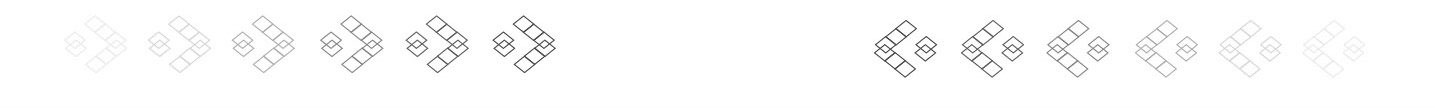
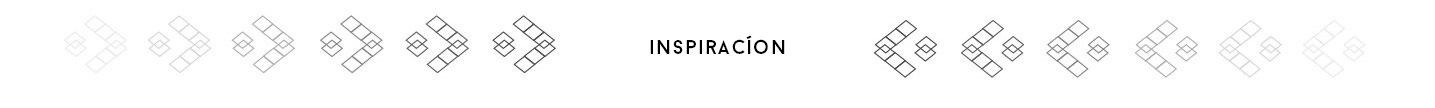
More fixes

Changed region(s): [[0.4293, 0.3611, 0.5519, 0.5]]

diff --git a/index.html b/index.html
@@ -50,7 +50,7 @@
                 <li><a href="#footer">CONTACTO</a></li>
             </ul>
         </div>
-        <a href="https://app.thebookingbutton.com/properties/pugsealtennysondirect" class="boo-king-a" target="_blank">Reservar</a>
+        <a href="https://app.thebookingbutton.com/properties/pugsealtennysondirect" class="boo-king-a" target="_blank">reservar</a>
         <img class="puglogob" src="images/logo2x.png" height="70" alt="PugSeal-Logo" />
         <a href="#firstPage" class="white-logo-bx"><img src="images/logo2xw.png" height="70" alt="PugSeal-Logo" /></a>
     </div>
@@ -67,8 +67,6 @@
                 <a class="show-booking-nav" href="https://app.thebookingbutton.com/properties/pugsealtennysondirect" target="_blank" data-aos="zoom-in" data-aos-duration="1000" data-aos-easing="ease-out-sine"><img src="images/welc.png" height="45" alt="" /></a>
             </div>
             <a href="#secondPage" class="down-scroll">
-
-                <div class="tagnav">Inspiración</div>
                 <!-- Generator: Adobe Illustrator 21.0.2, SVG Export Plug-In  -->
                 <svg x="0px" y="0px" width="21.2px" height="11.3px" viewBox="0 0 21.2 11.3" style="enable-background:new 0 0 21.2 11.3;" xml:space="preserve">
 			<defs>
@@ -319,7 +317,7 @@
         </div>
         <div class="row ubicaciones">
             <div class="col s12 m4">
-                <h3><a href="belisario.html">B E L I S A R I O &nbsp; D O M Í N G U E Z</a></h3>
+                <h3><a href="belisario.html">B E L I S A R I O</a></h3>
                 <p>1er. Cerrada Belisario Dominguez
                     <br /> Col. Del Carmen
                     <br /> Delegación CoyoacÁn México,

diff --git a/belisario.html b/belisario.html
@@ -82,7 +82,7 @@
                 </div>
             </div>
             <a href="#secondPage" class="down-scroll">
-                <div class="tagnav">Inspiración</div>
+                <div class="tagnav"></div>
                 <!-- Generator: Adobe Illustrator 21.0.2, SVG Export Plug-In  -->
                 <svg x="0px" y="0px" width="21.2px" height="11.3px" viewBox="0 0 21.2 11.3" style="enable-background:new 0 0 21.2 11.3;" xml:space="preserve">
 			<defs>
@@ -95,7 +95,7 @@
 
             </a>
             <div class="clearfix"></div>
-            <div class="pug-seal-deco" style="background: white url('images/barrawho-rooms.jpg') no-repeat center center;"></div>
+            <div class="pug-seal-deco" style="background: white url('images/barrawho.png') no-repeat center center;"></div>
             <div class="clearfix"></div>
         </div>
         <div class="section" id="section-mid" style="background: none;">
@@ -356,7 +356,7 @@
             </div>
             <div class="row ubicaciones">
                 <div class="col s12 m4">
-                    <h3><a href="belisario.html">B E L I S A R I O &nbsp; D O M Í N G U E Z</a></h3>
+                    <h3><a href="belisario.html">B E L I S A R I O</a></h3>
                     <p>1er. Cerrada Belisario Dominguez
                         <br /> Col. Del Carmen
                         <br /> Delegación CoyoacÁn México,

diff --git a/careyes/index.html b/careyes/index.html
@@ -164,6 +164,7 @@
                 		        <li class="slide1litext hide-on-med-and-down">- Día de aventura con snorkel,<br />
                 		            <span> pádel y comida en la playa</span><br />
                 		        </li>
+                		        <div class="clearfix"></div>
                 		        <li class="slide1litext">- Masajista</li><br />
                 		        <li class="slide1litext">- Paseo en yate</li>
                 		    </ul>
@@ -288,7 +289,7 @@
             </div>
             <div class="row ubicaciones">
                 <div class="col s12 m4">
-                    <h3><a href="belisario.html">B E L I S A R I O &nbsp; D O M Í N G U E Z</a></h3>
+                    <h3><a href="belisario.html">B E L I S A R I O</a></h3>
                     <p>1er. Cerrada Belisario Dominguez
                         <br /> Col. Del Carmen
                         <br /> Delegación CoyoacÁn México,

diff --git a/allanpoe.html b/allanpoe.html
@@ -89,7 +89,7 @@
                 </div>
             </div>
             <a href="#secondPage" class="down-scroll">
-                <div class="tagnav">Inspiración</div>
+                <div class="tagnav"></div>
                 <!-- Generator: Adobe Illustrator 21.0.2, SVG Export Plug-In  -->
                 <svg x="0px" y="0px" width="21.2px" height="11.3px" viewBox="0 0 21.2 11.3" style="enable-background:new 0 0 21.2 11.3;" xml:space="preserve">
 			<defs>
@@ -281,7 +281,7 @@
             </div>
             <div class="row ubicaciones">
                 <div class="col s12 m4">
-                    <h3><a href="belisario.html">B E L I S A R I O &nbsp; D O M Í N G U E Z</a></h3>
+                    <h3><a href="belisario.html">B E L I S A R I O</a></h3>
                     <p>1er. Cerrada Belisario Dominguez
                         <br /> Col. Del Carmen
                         <br /> Delegación CoyoacÁn México,

diff --git a/allanpoe_.html b/allanpoe_.html
@@ -89,7 +89,7 @@
                 </div>
             </div>
             <a href="#secondPage" class="down-scroll">
-                <div class="tagnav">Inspiración</div>
+                <div class="tagnav"></div>
                 <!-- Generator: Adobe Illustrator 21.0.2, SVG Export Plug-In  -->
                 <svg x="0px" y="0px" width="21.2px" height="11.3px" viewBox="0 0 21.2 11.3" style="enable-background:new 0 0 21.2 11.3;" xml:space="preserve">
 			<defs>
@@ -275,7 +275,7 @@
             </div>
             <div class="row ubicaciones">
                 <div class="col s12 m4">
-                    <h3><a href="belisario.html">B E L I S A R I O &nbsp; D O M Í N G U E Z</a></h3>
+                    <h3><a href="belisario.html">B E L I S A R I O</a></h3>
                     <p>1er. Cerrada Belisario Dominguez
                         <br /> Col. Del Carmen
                         <br /> Delegación CoyoacÁn México,

diff --git a/tenyson.html b/tenyson.html
@@ -84,7 +84,7 @@
                 </div>
             </div>
             <a href="#secondPage" class="down-scroll">
-                <div class="tagnav">Inspiración</div>
+                <div class="tagnav"></div>
                 <!-- Generator: Adobe Illustrator 21.0.2, SVG Export Plug-In  -->
                 <svg x="0px" y="0px" width="21.2px" height="11.3px" viewBox="0 0 21.2 11.3" style="enable-background:new 0 0 21.2 11.3;" xml:space="preserve">
 			<defs>
@@ -272,7 +272,7 @@
             </div>
             <div class="row ubicaciones">
                 <div class="col s12 m4">
-                    <h3><a href="belisario.html">B E L I S A R I O &nbsp; D O M Í N G U E Z</a></h3>
+                    <h3><a href="belisario.html">B E L I S A R I O</a></h3>
                     <p>1er. Cerrada Belisario Dominguez
                         <br /> Col. Del Carmen
                         <br /> Delegación CoyoacÁn México,

diff --git a/tenyson_.html b/tenyson_.html
@@ -84,7 +84,7 @@
                 </div>
             </div>
             <a href="#secondPage" class="down-scroll">
-                <div class="tagnav">Inspiración</div>
+                <div class="tagnav"></div>
                 <!-- Generator: Adobe Illustrator 21.0.2, SVG Export Plug-In  -->
                 <svg x="0px" y="0px" width="21.2px" height="11.3px" viewBox="0 0 21.2 11.3" style="enable-background:new 0 0 21.2 11.3;" xml:space="preserve">
 			<defs>
@@ -283,7 +283,7 @@
             </div>
             <div class="row ubicaciones">
                 <div class="col s12 m4">
-                    <h3><a href="belisario.html">B E L I S A R I O &nbsp; D O M Í N G U E Z</a></h3>
+                    <h3><a href="belisario.html">B E L I S A R I O</a></h3>
                     <p>1er. Cerrada Belisario Dominguez
                         <br /> Col. Del Carmen
                         <br /> Delegación CoyoacÁn México,

diff --git a/index_.html b/index_.html
@@ -68,7 +68,7 @@
             </div>
             <a href="#secondPage" class="down-scroll">
 
-                <div class="tagnav">Inspiración</div>
+                <div class="tagnav"></div>
                 <!-- Generator: Adobe Illustrator 21.0.2, SVG Export Plug-In  -->
                 <svg x="0px" y="0px" width="21.2px" height="11.3px" viewBox="0 0 21.2 11.3" style="enable-background:new 0 0 21.2 11.3;" xml:space="preserve">
 			<defs>
@@ -315,7 +315,7 @@
     </div>
     <div class="row ubicaciones">
         <div class="col s12 m4">
-            <h3><a href="belisario.html">B E L I S A R I O &nbsp; D O M Í N G U E Z</a></h3>
+            <h3><a href="belisario.html">B E L I S A R I O</a></h3>
             <p>1er. Cerrada Belisario Dominguez
                 <br /> Col. Del Carmen
                 <br /> Delegación CoyoacÁn México,

diff --git a/allanpoe-exec.html b/allanpoe-exec.html
@@ -174,7 +174,7 @@
             </div>
             <div class="row ubicaciones">
                 <div class="col s12 m4">
-                    <h3><a href="belisario.html">B E L I S A R I O &nbsp; D O M Í N G U E Z</a></h3>
+                    <h3><a href="belisario.html">B E L I S A R I O</a></h3>
                     <p>1er. Cerrada Belisario Dominguez
                         <br /> Col. Del Carmen
                         <br /> Delegación CoyoacÁn México,

diff --git a/allanpoe-junior.html b/allanpoe-junior.html
@@ -175,7 +175,7 @@
             </div>
             <div class="row ubicaciones">
                 <div class="col s12 m4">
-                    <h3><a href="belisario.html">B E L I S A R I O &nbsp; D O M Í N G U E Z</a></h3>
+                    <h3><a href="belisario.html">B E L I S A R I O</a></h3>
                     <p>1er. Cerrada Belisario Dominguez
                         <br /> Col. Del Carmen
                         <br /> Delegación CoyoacÁn México,

diff --git a/allanpoe-master.html b/allanpoe-master.html
@@ -175,7 +175,7 @@
             </div>
             <div class="row ubicaciones">
                 <div class="col s12 m4">
-                    <h3><a href="belisario.html">B E L I S A R I O &nbsp; D O M Í N G U E Z</a></h3>
+                    <h3><a href="belisario.html">B E L I S A R I O</a></h3>
                     <p>1er. Cerrada Belisario Dominguez
                         <br /> Col. Del Carmen
                         <br /> Delegación CoyoacÁn México,

diff --git a/allanpoe-suite.html b/allanpoe-suite.html
@@ -171,7 +171,7 @@
             </div>
             <div class="row ubicaciones">
                 <div class="col s12 m4">
-                    <h3><a href="belisario.html">B E L I S A R I O &nbsp; D O M Í N G U E Z</a></h3>
+                    <h3><a href="belisario.html">B E L I S A R I O</a></h3>
                     <p>1er. Cerrada Belisario Dominguez
                         <br /> Col. Del Carmen
                         <br /> Delegación CoyoacÁn México,
